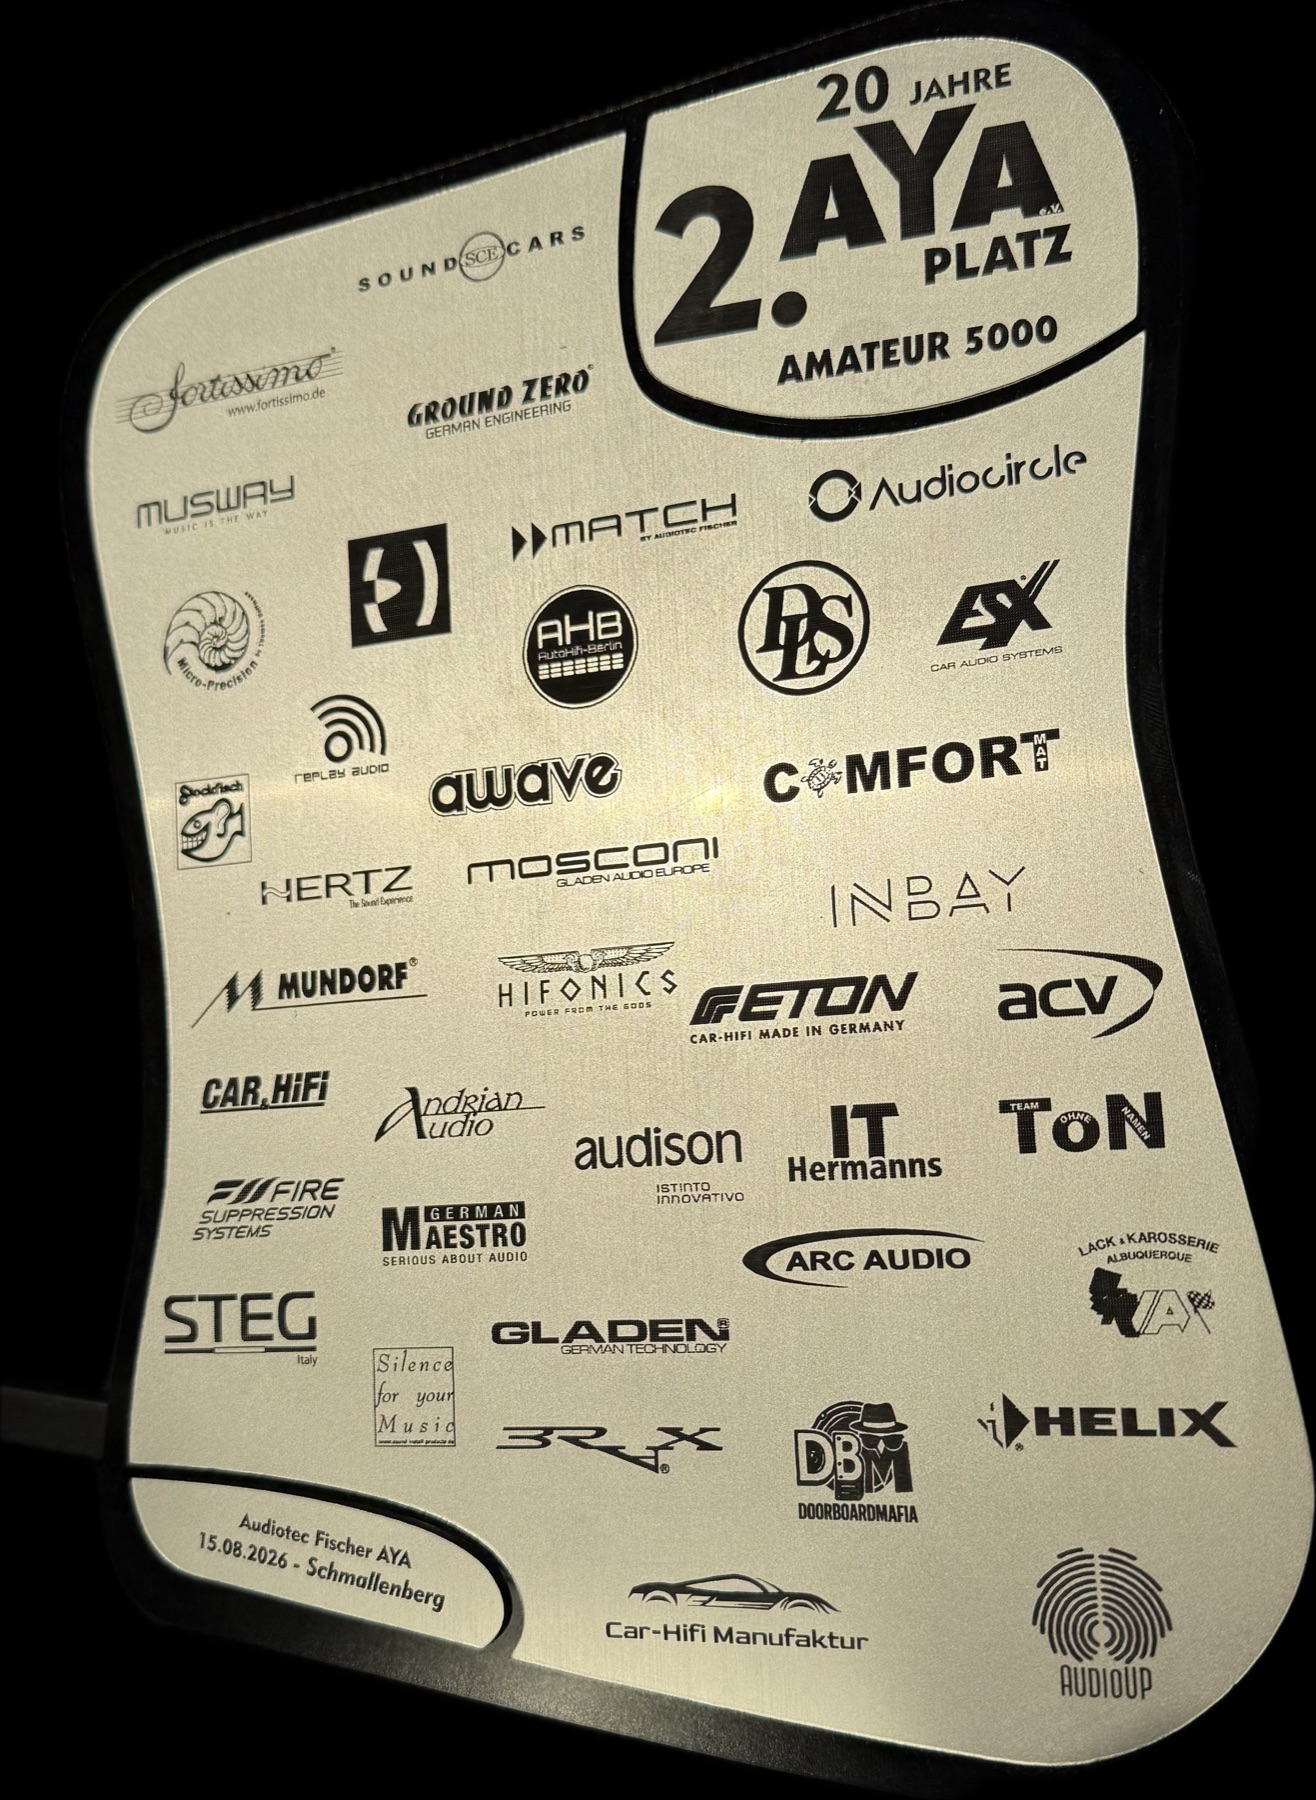
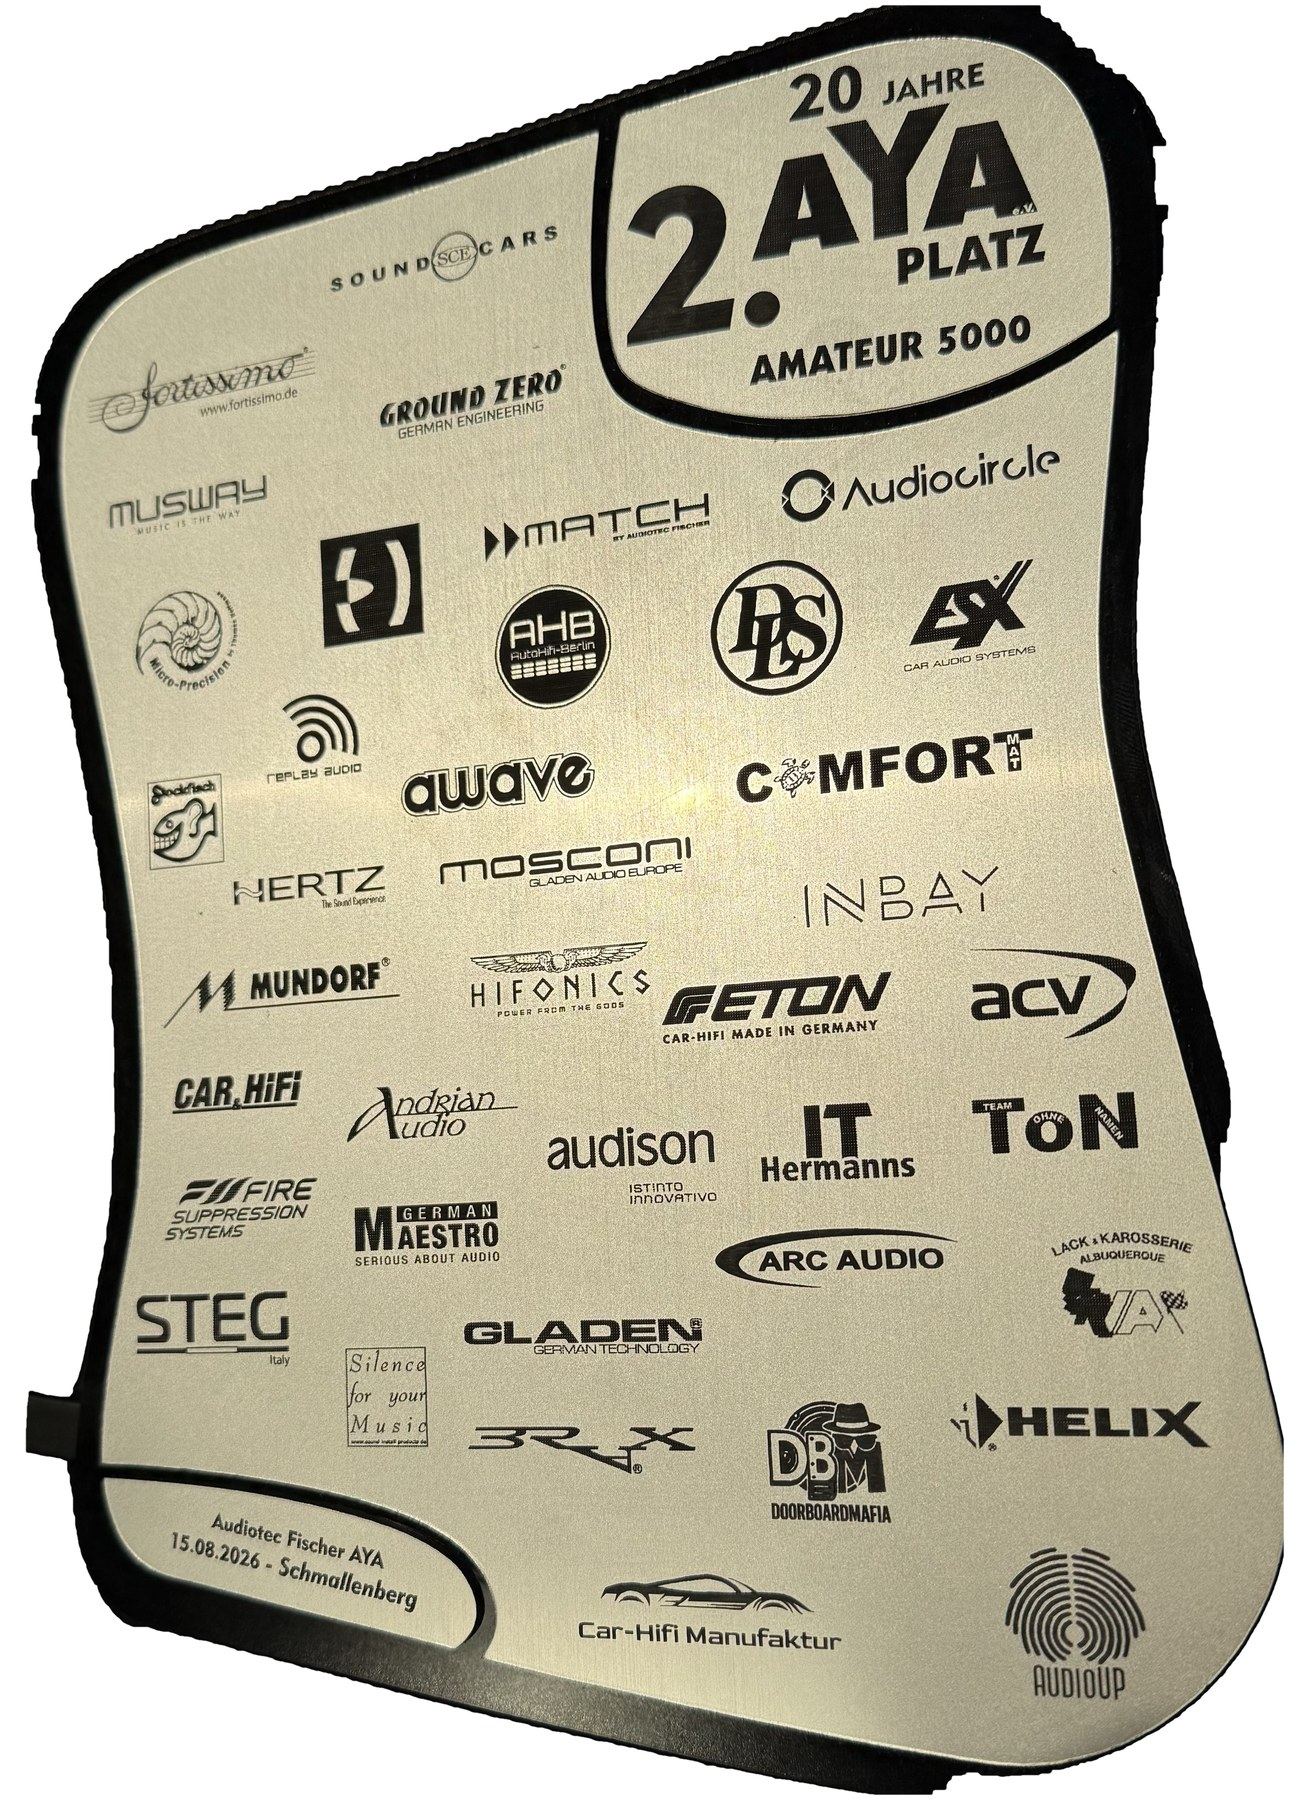
Awards: the AYA plaque cut out onto white like the earlier two, and the EMMA trophy added
The first upload sat on the black background of the photo. The plaque is
now cut out with its frame from the same photo (the iPhone subject lift
lost the frame's outline), and the EMMA Sound Off 2026 trophy joins the
row in all four READMEs. CHANGELOG merge note for 3.x updated to name
both assets.

diff --git a/CHANGELOG.md b/CHANGELOG.md
@@ -5,13 +5,13 @@ All notable changes to the autosound-tuning skill. The skill is co-developed wit
 ## [Unreleased] — docs only, on the frozen 2.x line
 
 ### Added
-- **Third award in the README, all four languages** (en/uk/de/pl): 2nd place, AYA Amateur 5000, 2026-08-15 Schmallenberg — same day, same tune, 3rd place SQ Entry Unlimited at EMMA Sound Off 2026. Asset: `assets/awards/aya-aug26-amateur5000.jpg`.
+- **Third award in the README, all four languages** (en/uk/de/pl): 2nd place, AYA Amateur 5000, 2026-08-15 Schmallenberg — same day, same tune, 3rd place SQ Entry Unlimited at EMMA Sound Off 2026. Assets: `assets/awards/aya-aug26-amateur5000.jpg` (plaque, cut out onto white like the earlier two) and `assets/awards/emma-aug26-entry-unlimited.jpg` (the EMMA trophy).
 
 ### ⚠ Carry into 3.x when the lines are merged
 2.x is frozen; this entry exists so the merge does not lose it. `main` (3.x) has the same "Awards & Achievements" block with two bullets and two images — apply the same three-line change there:
-1. copy `assets/awards/aya-aug26-amateur5000.jpg`;
+1. copy `assets/awards/aya-aug26-amateur5000.jpg` and `assets/awards/emma-aug26-entry-unlimited.jpg`;
 2. "two awards" → "three awards" + the third bullet, in `README.md`, `README.uk.md`, `README.de.md`, `README.pl.md`;
-3. the third `<img>` (with the `&nbsp;` spacer) after `aya-jul26-amateur5000.jpg`.
+3. the third and fourth `<img>` (plaque `width="100"`, trophy `width="60"`, each with the `&nbsp;` spacer) after `aya-jul26-amateur5000.jpg`.
 Diff to cherry-pick: the commit that adds this entry on branch `2.x`.
 
 ## [v2.8.1] — 2026-08-12

diff --git a/README.uk.md b/README.uk.md
@@ -29,6 +29,8 @@
 >   <img src="assets/awards/aya-jul26-amateur5000.jpg" width="100" alt="AYA Jul 2026 Amateur 5000">
 >   &nbsp;&nbsp;&nbsp;
 >   <img src="assets/awards/aya-aug26-amateur5000.jpg" width="100" alt="AYA Aug 2026 Amateur 5000, 2nd place">
+>   &nbsp;&nbsp;&nbsp;
+>   <img src="assets/awards/emma-aug26-entry-unlimited.jpg" width="60" alt="EMMA Sound Off 2026 SQ Entry Unlimited, 3rd place">
 > </p>
 > 
 > *Тут може бути і твоя нагорода!*

diff --git a/README.de.md b/README.de.md
@@ -29,6 +29,8 @@
 >   <img src="assets/awards/aya-jul26-amateur5000.jpg" width="100" alt="AYA Jul 2026 Amateur 5000">
 >   &nbsp;&nbsp;&nbsp;
 >   <img src="assets/awards/aya-aug26-amateur5000.jpg" width="100" alt="AYA Aug 2026 Amateur 5000, 2nd place">
+>   &nbsp;&nbsp;&nbsp;
+>   <img src="assets/awards/emma-aug26-entry-unlimited.jpg" width="60" alt="EMMA Sound Off 2026 SQ Entry Unlimited, 3rd place">
 > </p>
 > 
 > *Hier könnte auch deine Auszeichnung stehen!*

diff --git a/README.pl.md b/README.pl.md
@@ -29,6 +29,8 @@
 >   <img src="assets/awards/aya-jul26-amateur5000.jpg" width="100" alt="AYA Jul 2026 Amateur 5000">
 >   &nbsp;&nbsp;&nbsp;
 >   <img src="assets/awards/aya-aug26-amateur5000.jpg" width="100" alt="AYA Aug 2026 Amateur 5000, 2nd place">
+>   &nbsp;&nbsp;&nbsp;
+>   <img src="assets/awards/emma-aug26-entry-unlimited.jpg" width="60" alt="EMMA Sound Off 2026 SQ Entry Unlimited, 3rd place">
 > </p>
 > 
 > *Tutaj może być też twoja nagroda!*

diff --git a/README.md b/README.md
@@ -29,6 +29,8 @@
 >   <img src="assets/awards/aya-jul26-amateur5000.jpg" width="100" alt="AYA Jul 2026 Amateur 5000">
 >   &nbsp;&nbsp;&nbsp;
 >   <img src="assets/awards/aya-aug26-amateur5000.jpg" width="100" alt="AYA Aug 2026 Amateur 5000, 2nd place">
+>   &nbsp;&nbsp;&nbsp;
+>   <img src="assets/awards/emma-aug26-entry-unlimited.jpg" width="60" alt="EMMA Sound Off 2026 SQ Entry Unlimited, 3rd place">
 > </p>
 > 
 > *Your award could be here too!*
